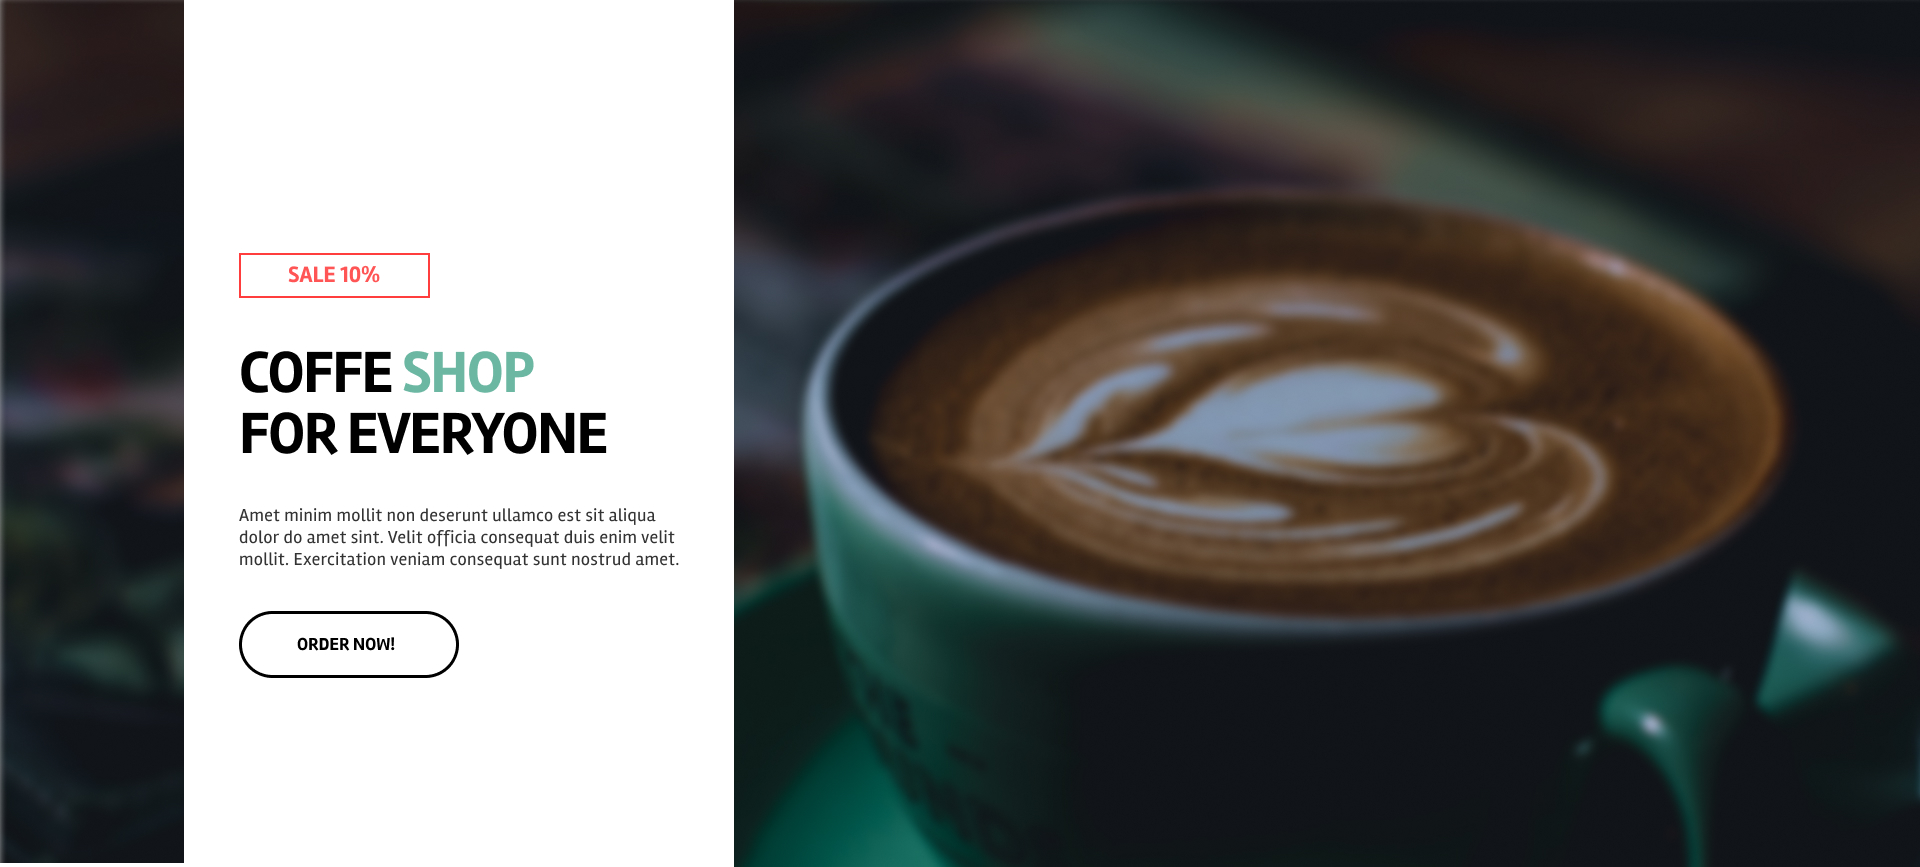
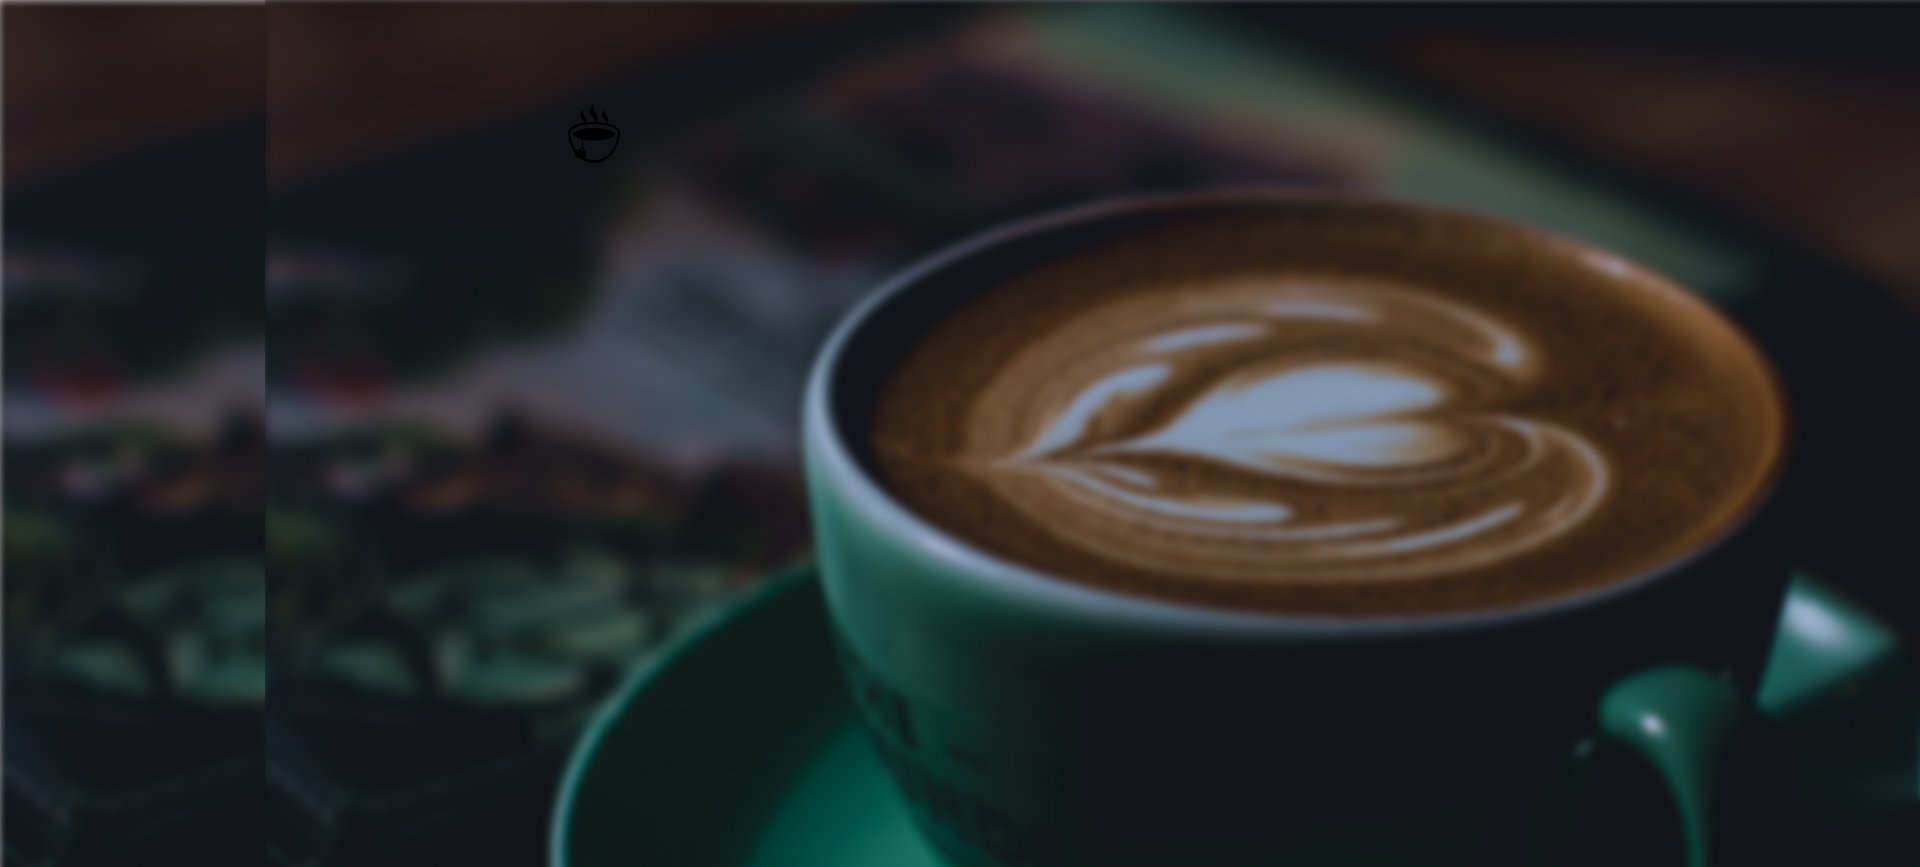
twoPage

Changed region(s): [[0.0, 0.0, 0.4062, 1.0]]

diff --git a/style.css b/style.css
@@ -1,24 +1,186 @@
-.body {
+body {
+    font-family: 'Rambla', sans-serif;
+    margin: 0 0;
+    padding: 0 0;
     color: black;
+    font-size: 16px;
 }
 .wrapper {
-    max-width: 1440px;
+    max-width: 1110px;
     margin: 0 auto;
 }
-.page-1 {
-    background-image: url('img/bg.jpg');
+.whiteline {
+    width: 450px;
+    height: 770px;
+    background-color: #fff;
+    position: absolute;
 }
-.wrapper > header {
+.page-1 {
+    z-index: 0;
+    height: 770px;
+    background-image: url('img/bg.jpg');
+    background-attachment: no-repeat;
+    background-size: cover;
+}
+.head > img {
+    margin-left: 20px;
+    z-index: 2;
+}
+.head {
+    margin-right: 40px;
+    padding-top: 10px;
     display: flex;
+    align-items: center;
     justify-content: space-between;
+    
 }
 .menu {
-    color: white;
     list-style-type: none;
 }
 .menu > li {
     display: inline-block;
+    margin-right: 100px;
 }
-.menu a {
+.menu > li > a {
+    font-size: 14px;
+    color: white;
+    text-transform: uppercase;
     text-decoration: none;
+}
+.menu li:last-child {
+    margin-right: 0px;
+}
+.h1 {
+    position: relative;
+    z-index: 2;
+    margin-bottom: 40px;
+    max-width: 400px;
+    font-weight: bold;
+    letter-spacing: -0.025em;
+    font-size: 52px;
+    text-transform: uppercase;
+    line-height: 101.4%;
+}
+.content-page-1 {
+    margin-left: 20px;
+    padding-top: 175px;
+    padding-bottom: 170px;
+}
+.sale {
+    position: relative;
+    z-index: 2;
+    text-transform: uppercase;
+    margin-bottom: 44px;
+    font-size: 20px;
+    padding: 5px 40px;
+    font-weight: bold;
+    color: red;
+    border: 3px solid red;
+    text-align: center;
+    max-width: 100px;
+}
+.btn {
+    position: relative;
+    z-index: 2;
+    border: 3px solid black;
+    margin-top: 44px;
+    font-weight: bold;
+    text-transform: uppercase;
+    background-color: transparent;
+    border-radius: 30px;
+    padding: 15px 50px;
+}
+.content-page-1 > p {
+    position: relative;
+    z-index: 2;
+    font-size: 16px;
+    margin: 0 0;
+    padding: 0 0;
+    max-width: 390px;
+}
+.row-content-2 {
+    display: flex;
+    flex-direction: column;
+}
+.row-content-1 {
+    display: flex;
+    justify-content: space-between;
+    margin-bottom: 53px;
+}
+.row-content-2 {
+    display: flex;
+    flex-direction: row-reverse;
+    justify-content: space-between;
+    margin-bottom: 53px;
+}
+.h2 {
+    margin-left: 20px;
+    position: relative;
+    color: white;
+    font-weight: bold;
+    font-size: 20px;
+    margin-top: 14px;
+    width: 280px;
+    margin-bottom: 48px;
+}
+.h2-2 {
+    margin-left: 160px;
+    margin-right: 20px;
+    position: relative;
+    color: white;
+    font-weight: bold;
+    font-size: 20px;
+    margin-top: 14px;
+    margin-bottom: 48px;
+}
+.text2 > p {
+    margin-right: 20px
+}
+.text > p {
+    padding-right: 140px;
+    margin-left: 20px;
+}
+.image {
+    margin-right: 20px;
+}
+.image2 {
+    margin-left: 20px;
+}
+.text {
+    font-size: 16px;
+    text-align: left;
+}
+.text2 {
+    width: 463px;
+    text-align: right;
+}
+.name-page {
+    text-align: center;
+    margin-top: 60px;
+    margin-bottom: 60px;
+    font-size: 30px;
+    text-transform: uppercase;
+    font-weight: bold;
+}
+.greenline1 {
+    background-color:#6BB7A2;
+    margin-top: 96.8px;
+    height: 72px;
+    width: 45.3%;
+    position: absolute;
+}
+.greenline2 {
+    background-color:#6BB7A2;
+    margin-top: 579px;
+    height: 72px;
+    width: 45.3%;
+    position: absolute;
+}
+.grayline {
+    margin-left: 54.6%;
+    background-color: #BAA58E;
+    margin-top: 337px;
+    height: 72px;
+    width: 50%;
+    position: absolute;
 }

diff --git a/index.html b/index.html
@@ -5,12 +5,17 @@
     <meta name="viewport" content="width=device-width, initial-scale=1.0">
     <title>Coffe Shop</title>
     <link rel="stylesheet" href="style.css">
+    <link href="https://fonts.googleapis.com/css2?family=Rambla:wght@400;700&display=swap" rel="stylesheet">
+    <style>
+        @import url('https://fonts.googleapis.com/css2?family=Rambla:wght@400;700&display=swap');
+    </style>
 </head>
 <body>
     <div class="page-1">
         <div class="wrapper">
+            <div class="whiteline"></div>
             <header class="head">
-                <img src="img/" alt="Coffeshop">
+                <img src="img/logo.svg" alt="Coffeshop">
                 <ul class="menu">
                     <li><a href="">About us</a></li>
                     <li><a href="">Company</a></li>
@@ -18,7 +23,51 @@
                     <li><a href="">Contacts</a></li>
                 </ul>
             </header>
+            <div class="content-page-1">
+                <div class="sale">Sale 10%</div>
+                <div class="h1">Coffe <span style="color: #6BB7A2;">shop</span> for everyone</div>
+                <p>Amet minim mollit non deserunt ullamco est sit aliqua dolor do amet sint. Velit officia consequat duis enim velit mollit. Exercitation veniam consequat sunt nostrud amet.</p>
+                <button class="btn">Order now!</button>
+            </div>
         </div>
-    </head>
+    </div>
+    <div class="page-2">
+        <div class="greenline1"></div>
+        <div class="greenline2"></div>
+        <div class="grayline"></div>
+        <div class="wrapper">
+            <div class="name-page">About <span style="color: #BAA58E;">our</span> coffe shop</div>
+            <div class="content-page-2">
+                <div class="row-content-1">
+                    <div class="text">
+                        <div class="h2">1. This is our beautifully coffe and we can take him to you</div>
+                        <p>Amet minim mollit non deserunt ullamco est sit aliqua dolor do amet sint. Velit officia consequat duis enim velit mollit. Exercitation veniam consequat sunt nostrud amet.</p>
+                    </div>
+                    <div class="image">
+                        <img src="img/img1.png" alt="image">
+                    </div>
+                </div>
+                <div class="row-content-2">
+                    <div class="text2">
+                        <div class="h2-2">2. This is our beautifully coffe and we can take him to you</div>
+                        <p>Amet minim mollit non deserunt ullamco est sit aliqua dolor do amet sint. Velit officia consequat duis enim velit mollit. Exercitation veniam consequat sunt nostrud amet.</p>
+                    </div>
+                    <div class="image2">
+                        <img src="img/img2.png" alt="image">
+                    </div>
+                </div>
+                <div class="row-content-1">
+                    <div class="greenline"></div>
+                    <div class="text">
+                        <div class="h2">3. This is our beautifully coffe and we can take him to you</div>
+                        <p>Amet minim mollit non deserunt ullamco est sit aliqua dolor do amet sint. Velit officia consequat duis enim velit mollit. Exercitation veniam consequat sunt nostrud amet.</p>
+                    </div>
+                    <div class="image">
+                        <img src="img/img3.png" alt="image">
+                    </div>
+                </div>
+            </div>
+        </div>    
+    </div>
 </body>
 </html>
